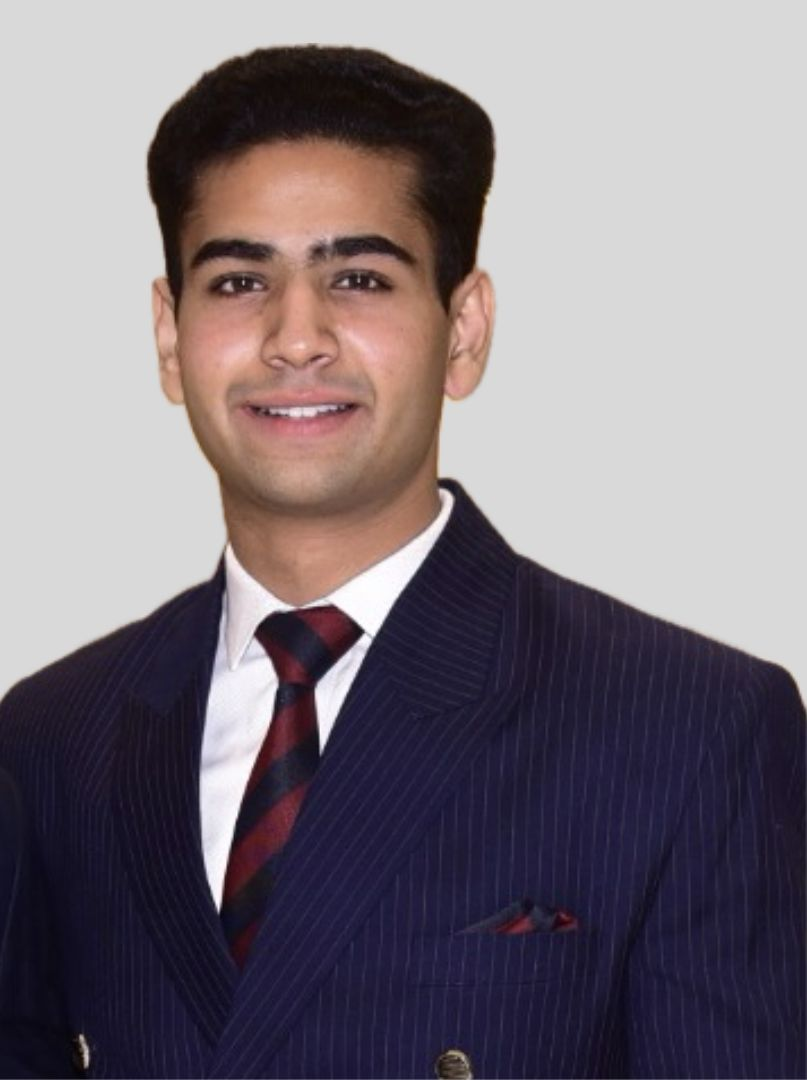
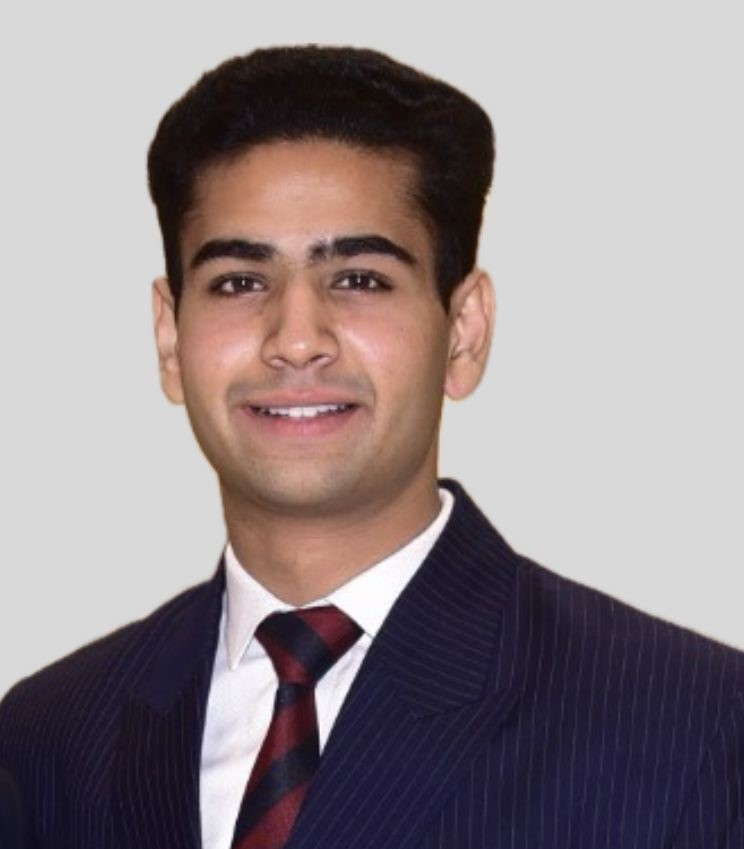
Added Frequently Asked Questions.

diff --git a/index.html b/index.html
@@ -364,7 +364,7 @@
           <div class="col-lg-3 col-md-6 d-flex align-items-stretch">
             <div class="member" data-aos="fade-up" data-aos-delay="100">
               <div class="member-img">
-                <img src="assets/img/Ashish.jpeg" class="img-fluid" >
+                <img src="assets/img/Ashish.jpeg" class="img-fluid" style="max-width: 100%; height: auto; max-height: fit-content;" >
                 <div class="social">
                   <a href=""><i class="bi bi-twitter"></i></a>
                   <a href=""><i class="bi bi-facebook"></i></a>
@@ -382,7 +382,7 @@
           <div class="col-lg-3 col-md-6 d-flex align-items-stretch">
             <div class="member" data-aos="fade-up" data-aos-delay="200">
               <div class="member-img">
-                <img src="assets/img/team/team-2.jpg" class="img-fluid" alt="">
+                <img src="assets/img/team/Samriddhi.jpeg" class="img-fluid" alt="" style="max-width: 100%; height: auto; max-height: fit-content;">
                 <div class="social">
                   <a href=""><i class="bi bi-twitter"></i></a>
                   <a href=""><i class="bi bi-facebook"></i></a>
@@ -449,11 +449,11 @@
         <div class="row faq-item d-flex align-items-stretch" data-aos="fade-up" data-aos-delay="100">
           <div class="col-lg-5">
             <i class="ri-question-line"></i>
-            <h4>Non consectetur a erat nam at lectus urna duis?</h4>
+            <h4>What features does AgriConnect+ offer to farmers?</h4>
           </div>
           <div class="col-lg-7">
             <p>
-              Feugiat pretium nibh ipsum consequat. Tempus iaculis urna id volutpat lacus laoreet non curabitur gravida. Venenatis lectus magna fringilla urna porttitor rhoncus dolor purus non.
+              AgriConnect+ provides real-time weather updates, crop-specific information, and expert advice on farming techniques. It also includes a marketplace for direct farmer-buyer connections, facilitates essential resource delivery, integrates telemedicine services, and offers information on government schemes and subsidies.
             </p>
           </div>
         </div><!-- End F.A.Q Item-->
@@ -461,35 +461,36 @@
         <div class="row faq-item d-flex align-items-stretch" data-aos="fade-up" data-aos-delay="200">
           <div class="col-lg-5">
             <i class="ri-question-line"></i>
-            <h4>Feugiat scelerisque varius morbi enim nunc faucibus a pellentesque?</h4>
+            <h4>How does AgriConnect+ contribute to diversified employment opportunities for farmers?
+            </h4>
           </div>
           <div class="col-lg-7">
             <p>
-              Dolor sit amet consectetur adipiscing elit pellentesque habitant morbi. Id interdum velit laoreet id donec ultrices. Fringilla phasellus faucibus scelerisque eleifend donec pretium. Est pellentesque elit ullamcorper dignissim.
-            </p>
+              AgriConnect+ enables farmers to explore new markets and expand their customer base through its marketplace feature. By connecting directly with buyers, farmers can eliminate intermediaries and ensure fair prices for their produce, contributing to diversified employment opportunities in the agricultural sector.            </p>
           </div>
         </div><!-- End F.A.Q Item-->
 
         <div class="row faq-item d-flex align-items-stretch" data-aos="fade-up" data-aos-delay="300">
           <div class="col-lg-5">
             <i class="ri-question-line"></i>
-            <h4>Dolor sit amet consectetur adipiscing elit pellentesque habitant morbi?</h4>
+            <h4>How does AgriConnect+ address basic infrastructure development in rural areas?
+            </h4>
           </div>
           <div class="col-lg-7">
             <p>
-              Eleifend mi in nulla posuere sollicitudin aliquam ultrices sagittis orci. Faucibus pulvinar elementum integer enim. Sem nulla pharetra diam sit amet nisl suscipit. Rutrum tellus pellentesque eu tincidunt. Lectus urna duis convallis convallis tellus.
-            </p>
+              AgriConnect+ collaborates with local authorities and NGOs to facilitate the delivery of essential resources such as seeds, fertilizers, and farming equipment to remote areas. This ensures that farmers in rural areas have access to the necessary tools for successful cultivation.            </p>
           </div>
         </div><!-- End F.A.Q Item-->
 
         <div class="row faq-item d-flex align-items-stretch" data-aos="fade-up" data-aos-delay="400">
           <div class="col-lg-5">
             <i class="ri-question-line"></i>
-            <h4>Ac odio tempor orci dapibus. Aliquam eleifend mi in nulla?</h4>
+            <h4>What healthcare services does AgriConnect+ provide to farmers in remote areas?
+            </h4>
           </div>
           <div class="col-lg-7">
             <p>
-              Aperiam itaque sit optio et deleniti eos nihil quidem cumque. Voluptas dolorum accusantium sunt sit enim. Provident consequuntur quam aut reiciendis qui rerum dolorem sit odio. Repellat assumenda soluta sunt pariatur error doloribus fuga.
+              AgriConnect+ partners with healthcare providers to offer telemedicine services. Farmers can consult doctors remotely, receive medical advice, and even schedule appointments if needed. This improves healthcare accessibility for farmers in remote areas.
             </p>
           </div>
         </div><!-- End F.A.Q Item-->
@@ -497,12 +498,11 @@
         <div class="row faq-item d-flex align-items-stretch" data-aos="fade-up" data-aos-delay="500">
           <div class="col-lg-5">
             <i class="ri-question-line"></i>
-            <h4>Tempus quam pellentesque nec nam aliquam sem et tortor consequat?</h4>
+            <h4>How does AgriConnect+ promote entrepreneurial skills and financial literacy among farmers?</h4>
           </div>
           <div class="col-lg-7">
             <p>
-              Molestie a iaculis at erat pellentesque adipiscing commodo. Dignissim suspendisse in est ante in. Nunc vel risus commodo viverra maecenas accumsan. Sit amet nisl suscipit adipiscing bibendum est. Purus gravida quis blandit turpis cursus in
-            </p>
+              AgriConnect+ features a section dedicated to providing information on government schemes, subsidies, and loans available to farmers. It also offers training modules on financial literacy and business management, empowering farmers to become successful entrepreneurs            </p>
           </div>
         </div><!-- End F.A.Q Item-->
 
